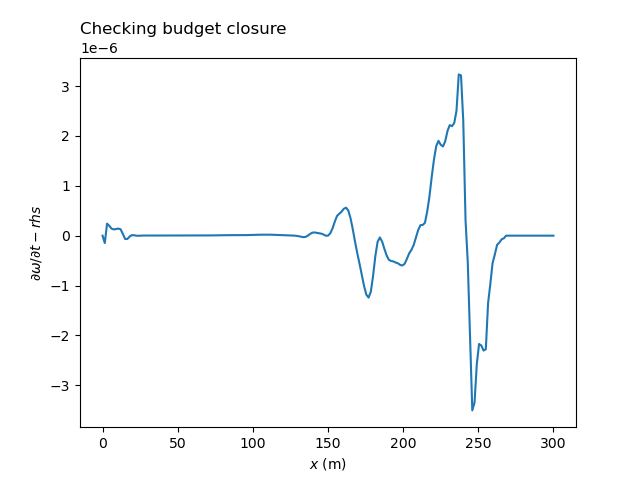
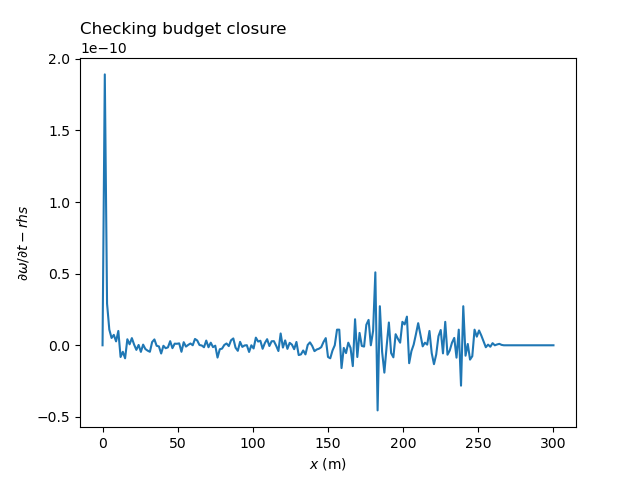
update vorticity budget

diff --git a/05-onlinevorticitybudget/vorticity_budget.py b/05-onlinevorticitybudget/vorticity_budget.py
@@ -23,7 +23,7 @@ rate = np.mean(np.abs(ds.variables['vrt_rate'][tini:,:,:]),(0,1))
 #wind = np.mean(ds.variables['vrt_wind'][tini:,:,:],(0,1)) # 0 in this simulation
 drag = np.mean(np.abs(ds.variables['vrt_drag'][tini:,:,:]),(0,1))
 fast = np.mean(np.abs(ds.variables['vrt_fast'][tini:,:,:]),(0,1))
-vars_rhs = ['vrt_xadv','vrt_yadv','vrt_hdiff','vrt_cor','vrt_prsgrd','vrt_hmix','vrt_vmix','vrt_nudg','vrt_wind','vrt_drag','vrt_fast']
+vars_rhs = ['vrt_xadv','vrt_yadv','vrt_cor','vrt_prsgrd','vrt_hmix','vrt_vmix','vrt_nudg','vrt_wind','vrt_fast']
 rhs = 0
 for var in vars_rhs:
     rhs = rhs + np.mean(ds.variables[var][tini:,:,:],(0,1))
@@ -38,7 +38,7 @@ plt.show()
 
 plt.figure(2,dpi=300)
 #plt.plot(xu,rate,label=r"$\partial \omega / \partial t$")
-plt.plot(xu,drag,label="Drag")
+#plt.plot(xu,drag,label="Drag") # already included in vmix
 #plt.plot(xu,fast,label="Fast")
 plt.plot(xu,vmix,label="Vertical mix.")
 plt.plot(xu,prsgrd,label="Prs. grad.")
